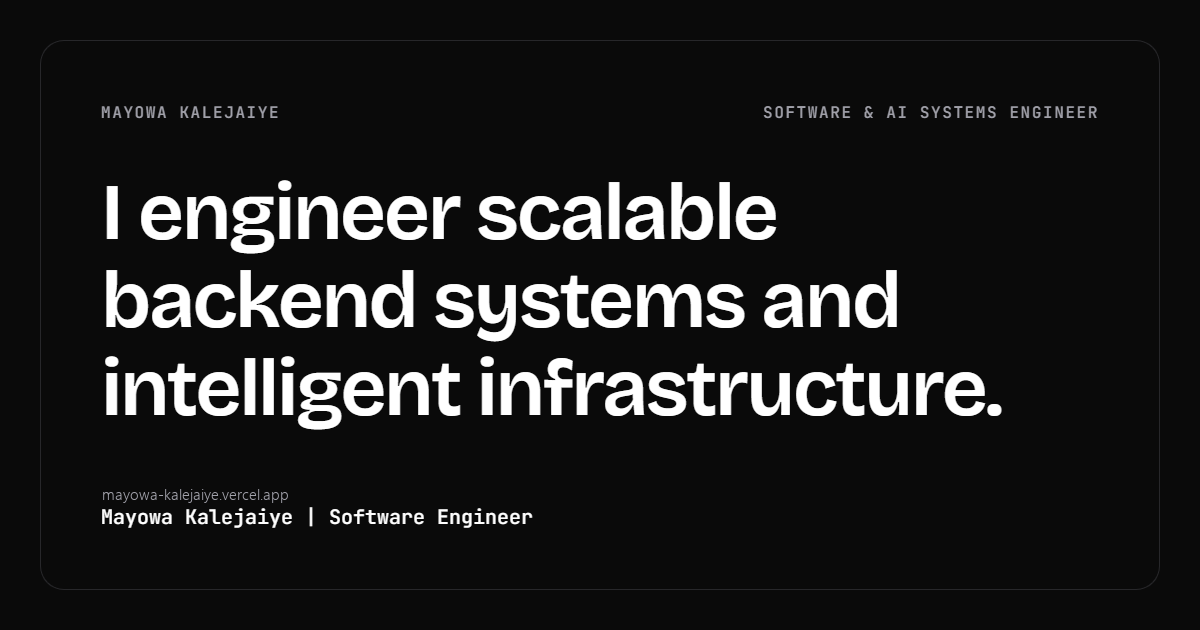
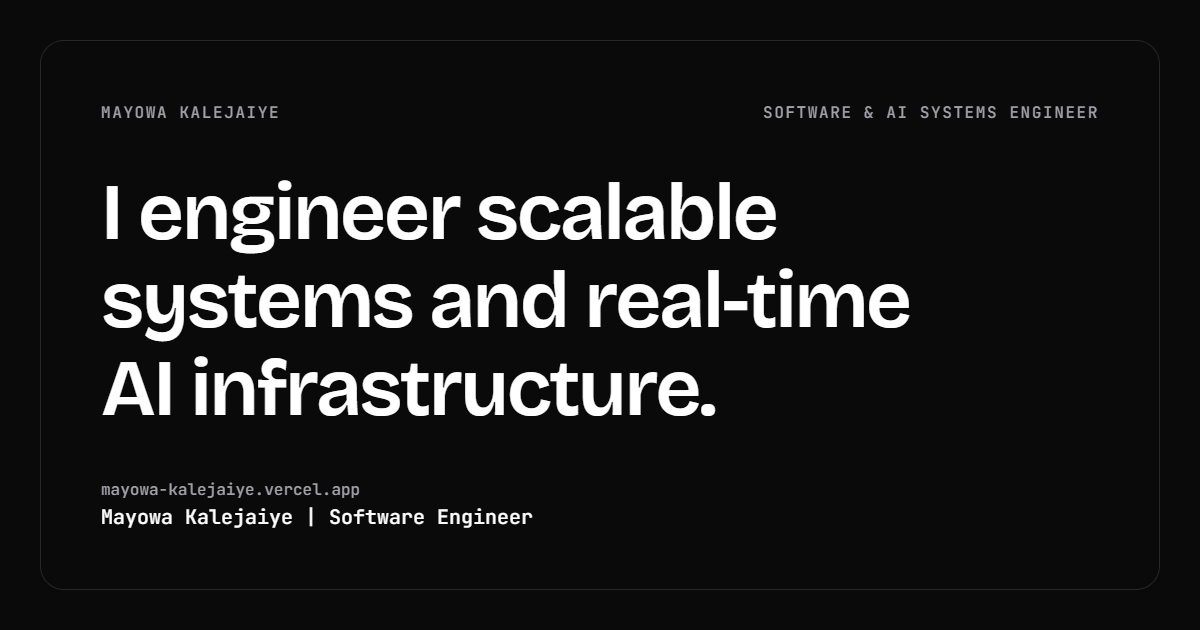
feat: update main text in OG image generator and replace OG image

Changed region(s): [[0.0617, 0.4222, 0.8325, 0.6937], [0.0925, 0.754, 0.3083, 0.8143]]

diff --git a/generate-og.html b/generate-og.html
@@ -90,8 +90,8 @@
     
     <div class="main-text">
       I engineer scalable<br/>
-      backend systems and<br/>
-      intelligent infrastructure.
+      systems and real-time<br/>
+      AI infrastructure.
     </div>
 
     <div class="footer">
